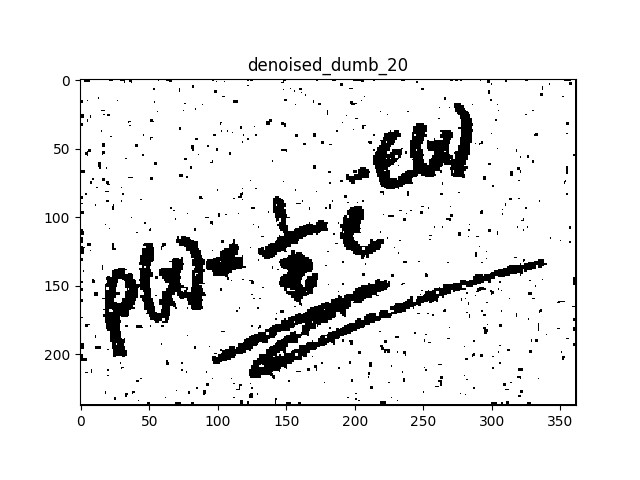
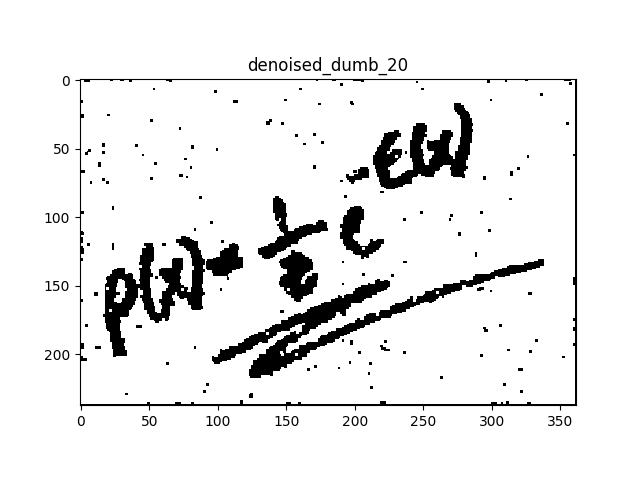
All problems fixed, running to generate all images

diff --git a/hw4/programming/main.py b/hw4/programming/main.py
@@ -102,10 +102,8 @@ def get_posterior_by_sampling(filename, initialization='same', logfile=None,
     Y = -Y
   if initialization == 'rand':
     Y[np.where(Y != 0)] = np.random.choice([1, -1], size=((N-2)*(M-2)))
-  counts = np.zeros((N, M))
-  frequencyZ_counts = []
-  MAX_BURNS = 10
-  MAX_SAMPLES = 10
+  MAX_BURNS = 100
+  MAX_SAMPLES = 1000
 
   def perform_sampling(log_fn):
     t = 0
@@ -120,6 +118,8 @@ def get_posterior_by_sampling(filename, initialization='same', logfile=None,
           print("Completed burn-in sample %s" % t)
         log_fn(t, "B", Y)
 
+    counts = np.zeros((N, M))
+    frequencyZ_counts = []
     for _ in range(MAX_SAMPLES):
       count_z = 0
       sampled = np.zeros(Y.shape)
@@ -130,7 +130,7 @@ def get_posterior_by_sampling(filename, initialization='same', logfile=None,
             Y[i][j] = sampled[i][j]
       if not DUMB_SAMPLE:
         is_one_in_sample = (sampled == 1)
-        counts += is_one_in_sample
+        counts += (is_one_in_sample)
         count_z = np.sum(is_one_in_sample[125:163, 143:175])
       frequencyZ_counts.append(count_z)
       t += 1
@@ -139,13 +139,15 @@ def get_posterior_by_sampling(filename, initialization='same', logfile=None,
               (t - (0 if DUMB_SAMPLE else MAX_BURNS)))
       log_fn(t, "S", sampled)
 
+    return counts, frequencyZ_counts
+
   if logfile is not None:
     with open(logfile, 'w') as log:
-      perform_sampling(
+      counts, frequencyZ_counts = perform_sampling(
           lambda i, typ, Ys: log.write("\t".join(map(
               str, [i, get_energy(Ys, X), typ])) + "\n"))
   else:
-    perform_sampling(lambda *args: None)
+    counts, frequencyZ_counts = perform_sampling(lambda *args: None)
 
   return counts / float(MAX_SAMPLES), Y, Counter(frequencyZ_counts)
 
